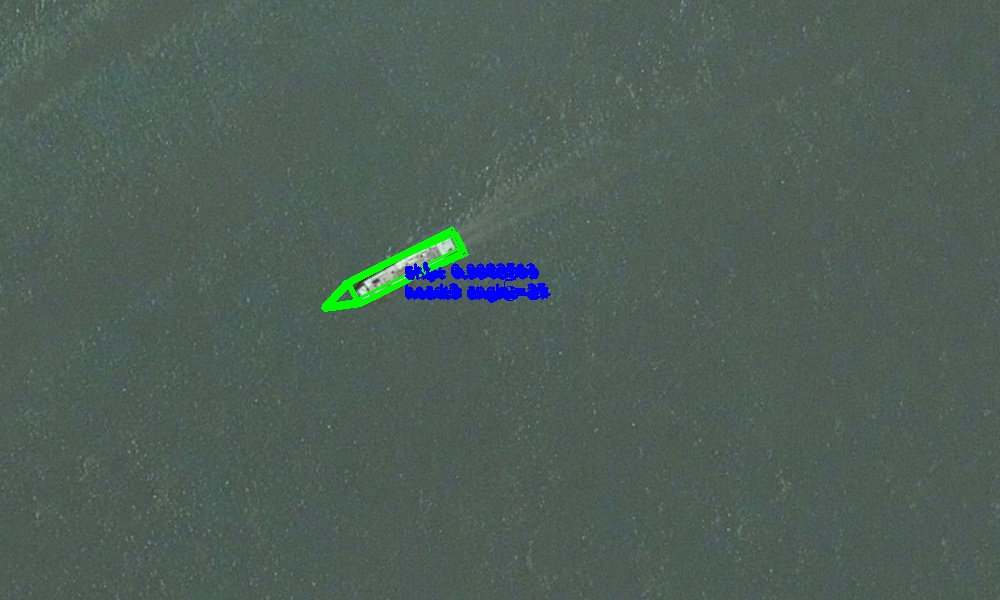
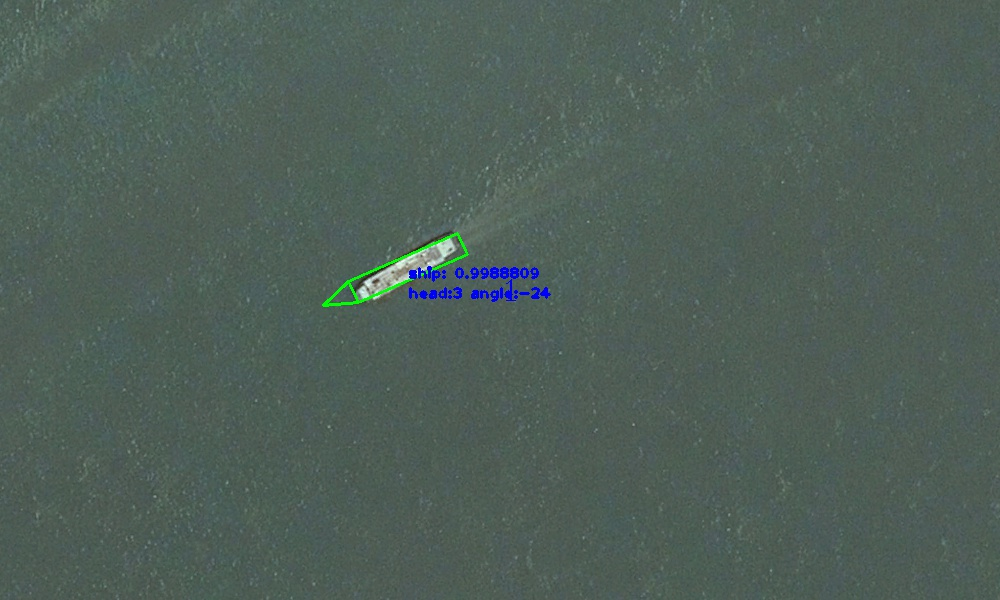
重新配置gpu-tensorflow【之前一直使用的cpu进行训练】，恰好解决了图片中出现重复的选择预测现象

Changed region(s): [[0.31, 0.36, 0.558, 0.54]]

diff --git a/tools/restore_model.py b/tools/restore_model.py
@@ -19,9 +19,10 @@ os.environ["CUDA_VISIBLE_DEVICES"] = "6"
 
 def get_restorer():
 
+    # 查找最新保存的checkpoint文件的文件名
     checkpoint_path = tf.train.latest_checkpoint(os.path.join(FLAGS.trained_checkpoint, cfgs.VERSION))
 
-    if checkpoint_path != None:
+    if checkpoint_path != None:  # 如果之前训练过，有保存过模型，则从训练结果中加载模型或者部分变量
         if RESTORE_FROM_RPN:
             print('___restore from rpn___')
             model_variables = slim.get_model_variables()
@@ -32,7 +33,7 @@ def get_restorer():
         else:
             restorer = tf.train.Saver()
         print("model restore from :", checkpoint_path)
-    else:
+    else:  # 如果之前没训练过（这是第一次训练），则加载pretrained模型（如Resnet预训练模型等）
         checkpoint_path = FLAGS.pretrained_model_path
         print("model restore from pretrained mode, path is :", checkpoint_path)
 

diff --git a/tools/inference.py b/tools/inference.py
@@ -17,7 +17,7 @@ from tools import restore_model
 from libs.fast_rcnn import build_fast_rcnn
 from help_utils.tools import *
 
-os.environ["CUDA_VISIBLE_DEVICES"] = "1"
+os.environ["CUDA_VISIBLE_DEVICES"] = "0"
 
 
 def get_imgs():

diff --git a/tools/eval.py b/tools/eval.py
@@ -1,4 +1,5 @@
 # -*- coding:utf-8 -*-
+# @Intro   : eval -> evaluation : 对训练好的模型使用各指标进行各维度的评估
 
 from __future__ import absolute_import
 from __future__ import print_function
